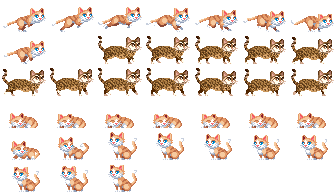
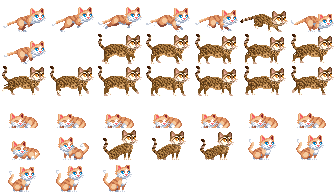
Update ocelot assets and create field guide entry
update field guide to have tabs represent creature families instead of individual creatures

diff --git a/UI/FieldGuide/FieldGuideMenu.xaml.cs b/UI/FieldGuide/FieldGuideMenu.xaml.cs
@@ -79,6 +79,8 @@ public partial class FieldGuideMenu : Window
     private readonly BitmapImage _exitButtonPressed;
 
     private readonly Dictionary<string, FieldGuideEntry> _creatureEntries;
+    private readonly Dictionary<FieldGuideTab, FieldGuideFamilyEntry>
+        _familiesByTab;
 
     private string? _currentCreatureId;
 
@@ -162,14 +164,6 @@ public partial class FieldGuideMenu : Window
                 $"Could not load Field Guide entry '{creatureId}'.");
     }
 
-    private readonly Dictionary<FieldGuideTab, FieldGuideTabEntry>
-        _tabsByColor;
-
-    private FieldGuideTabEntry GetTabEntry(
-        FieldGuideTab tab)
-    {
-        return _tabsByColor[tab];
-    }
     private void CenterCreatureName()
     {
         int titleCenterX =
@@ -196,13 +190,13 @@ public partial class FieldGuideMenu : Window
         FieldGuideDefinition guide =
             LoadFieldGuideDefinition();
 
-        _tabsByColor =
-            guide.Tabs.ToDictionary(
-                entry => entry.Tab);
+        _familiesByTab =
+            guide.Families.ToDictionary(
+                family => family.Tab);
 
         _creatureEntries =
-            guide.Tabs
-                .Select(entry => entry.CreatureId)
+            guide.Families
+                .SelectMany(family => family.CreatureIds)
                 .Distinct()
                 .ToDictionary(
                     id => id,
@@ -441,7 +435,7 @@ public partial class FieldGuideMenu : Window
             .ToArray();
 
         _tabTurnPaths =
-            _tabsByColor.Values
+            _familiesByTab.Values
                 .ToDictionary(
                     entry => entry.Tab,
                     entry => CreateTabTurnPath(
@@ -471,15 +465,15 @@ public partial class FieldGuideMenu : Window
 
     private void BuildTabs()
     {
-        foreach (FieldGuideTabEntry entry in
-                 _tabsByColor.Values.OrderBy(e => e.Order))
+        foreach (FieldGuideFamilyEntry entry in
+                 _familiesByTab.Values.OrderBy(e => e.Order))
         {
             var rightImage =
                 CreateTabImage(entry.Tab);
 
             var rightButton =
                 CreateTabButton(
-                    entry.Tab,
+                    entry,
                     RightTab_Click);
 
             var leftImage =
@@ -493,7 +487,7 @@ public partial class FieldGuideMenu : Window
 
             var leftButton =
                 CreateTabButton(
-                    entry.Tab,
+                    entry,
                     LeftTab_Click);
 
             Canvas.SetLeft(rightImage, RightTabX);
@@ -544,18 +538,36 @@ public partial class FieldGuideMenu : Window
         };
     }
 
+    private System.Windows.Controls.ToolTip CreateFieldGuideToolTip(
+        string text)
+    {
+        return new System.Windows.Controls.ToolTip
+        {
+            Content = new TextBlock
+            {
+                Text = text
+            }
+        };
+    }
+
     private WpfButton CreateTabButton(
-        FieldGuideTab tab,
+        FieldGuideFamilyEntry family,
         RoutedEventHandler clickHandler)
     {
         var button = new WpfButton
         {
             Width = TabWidth,
             Height = TabHeight,
-            Tag = tab,
+            Tag = family.Tab,
+            ToolTip = CreateFieldGuideToolTip(
+                family.Name),
             Style = (Style)FindResource(
                 "InvisibleTabButton")
         };
+
+        ToolTipService.SetInitialShowDelay(button, 200);
+        ToolTipService.SetBetweenShowDelay(button, 250);
+        ToolTipService.SetShowDuration(button, 5000);
 
         button.Click += clickHandler;
         button.MouseEnter += Tab_MouseEnter;
@@ -576,8 +588,8 @@ public partial class FieldGuideMenu : Window
             return;
         }
 
-        FieldGuideTabEntry destination =
-            _tabsByColor[tab];
+        FieldGuideFamilyEntry destination =
+            _familiesByTab[tab];
 
         await TurnForwardToAsync(
             destination);
@@ -593,8 +605,8 @@ public partial class FieldGuideMenu : Window
             return;
         }
 
-        FieldGuideTabEntry clicked =
-            _tabsByColor[tab];
+        FieldGuideFamilyEntry clicked =
+            _familiesByTab[tab];
 
         int destinationOrder =
             clicked.Order - 1;
@@ -605,8 +617,8 @@ public partial class FieldGuideMenu : Window
             return;
         }
 
-        FieldGuideTabEntry destination =
-            _tabsByColor.Values
+        FieldGuideFamilyEntry destination =
+            _familiesByTab.Values
                 .Single(entry =>
                     entry.Order == destinationOrder);
 
@@ -619,8 +631,8 @@ public partial class FieldGuideMenu : Window
         if (_isOpening || _isPageTurning)
             return;
 
-        FieldGuideTabEntry current =
-            _tabsByColor[_currentTab];
+        FieldGuideFamilyEntry current =
+            _familiesByTab[_currentTab];
 
         if (!_tabTurnPaths.TryGetValue(
             current.Tab,
@@ -977,8 +989,8 @@ public partial class FieldGuideMenu : Window
 
     private void UpdateRestingTabs()
     {
-        foreach (FieldGuideTabEntry entry in
-                 _tabsByColor.Values)
+        foreach (FieldGuideFamilyEntry entry in
+                 _familiesByTab.Values)
         {
             var controls =
                 _tabControls[entry.Tab];
@@ -1172,7 +1184,7 @@ public partial class FieldGuideMenu : Window
     }
 
     private async Task TurnBackwardToAsync(
-        FieldGuideTabEntry destination)
+        FieldGuideFamilyEntry destination)
     {
         if (_isOpening || _isPageTurning)
             return;
@@ -1180,8 +1192,8 @@ public partial class FieldGuideMenu : Window
         if (_currentCreatureId is null)
             return;
 
-        FieldGuideTabEntry current =
-            _tabsByColor[_currentTab];
+        FieldGuideFamilyEntry current =
+            _familiesByTab[_currentTab];
 
         if (!_tabTurnPaths.TryGetValue(
             current.Tab,
@@ -1246,13 +1258,16 @@ public partial class FieldGuideMenu : Window
             _currentTab =
                 destination.Tab;
 
+            string creatureId =
+                destination.CreatureIds[0];
+
             _currentCreatureId =
-                destination.CreatureId;
+                creatureId;
 
             UpdateRestingTabs();
 
             ShowCreatureEntry(
-                destination.CreatureId);
+                creatureId);
         }
         finally
         {
@@ -1267,7 +1282,7 @@ public partial class FieldGuideMenu : Window
     }
 
     private async Task TurnForwardToAsync(
-        FieldGuideTabEntry destination)
+        FieldGuideFamilyEntry destination)
     {
         if (_isOpening || _isPageTurning)
             return;
@@ -1346,13 +1361,16 @@ public partial class FieldGuideMenu : Window
             _currentTab =
                 destination.Tab;
 
+            string creatureId =
+                destination.CreatureIds[0];
+
             _currentCreatureId =
-                destination.CreatureId;
+                creatureId;
 
             UpdateRestingTabs();
 
             ShowCreatureEntry(
-                destination.CreatureId);
+                creatureId);
         }
         finally
         {

diff --git a/UI/FieldGuide/FieldGuideFamilyEntry.cs b/UI/FieldGuide/FieldGuideFamilyEntry.cs
@@ -1,0 +1,17 @@
+namespace Desktop_Creatures.UI.FieldGuide
+{
+    public sealed class FieldGuideFamilyEntry
+    {
+        public required string Id { get; init; }
+
+        public required string Name { get; init; }
+
+        public required FieldGuideTab Tab { get; init; }
+
+        public List<string> CreatureIds { get; init; } = [];
+
+        public int RightY { get; init; }
+
+        public int Order { get; init; }
+    }
+}

diff --git a/UI/FieldGuide/FieldGuideDefinition.cs b/UI/FieldGuide/FieldGuideDefinition.cs
@@ -1,13 +1,7 @@
-using System;
-using System.Collections.Generic;
-using System.Linq;
-using System.Text;
-using System.Threading.Tasks;
-
-namespace Desktop_Creatures.UI.FieldGuide
+namespace Desktop_Creatures.UI.FieldGuide
 {
     public sealed class FieldGuideDefinition
     {
-        public List<FieldGuideTabEntry> Tabs { get; init; } = [];
+        public List<FieldGuideFamilyEntry> Families { get; init; } = [];
     }
 }

diff --git a/Creatures/Ocelot.cs b/Creatures/Ocelot.cs
@@ -92,8 +92,8 @@ namespace Desktop_Creatures.Creatures
 
         public override void OnPickedUp()
         {
-            PlaySound(
-                CreatureSoundEvent.Pickup);
+            //PlaySound(
+            //    CreatureSoundEvent.Pickup);
 
             SetAction(
                 CreatureAction.Held,

diff --git a/UI/MainMenu/MainWindow.xaml.cs b/UI/MainMenu/MainWindow.xaml.cs
@@ -71,7 +71,8 @@ public partial class MainWindow : Window
     private readonly SurfaceManager _surfaceManager = new();
 
     private const int MaxRats = 20;
-    private const int MaxEagles = 10;
+    private const int MaxEagles = 20;
+    private const int MaxOcelots = 20;
 
     private int _uiScale = 1;
 

diff --git a/Behaviors/Movement/IMovementBehavior.cs b/Behaviors/Movement/IMovementBehavior.cs
@@ -1,10 +1,4 @@
-using System;
-using System.Collections.Generic;
-using System.Linq;
-using System.Text;
-using System.Threading.Tasks;
-
-namespace Desktop_Creatures.Behaviors.Movement
+namespace Desktop_Creatures.Behaviors.Movement
 {
     internal interface IMovementBehavior
     {
